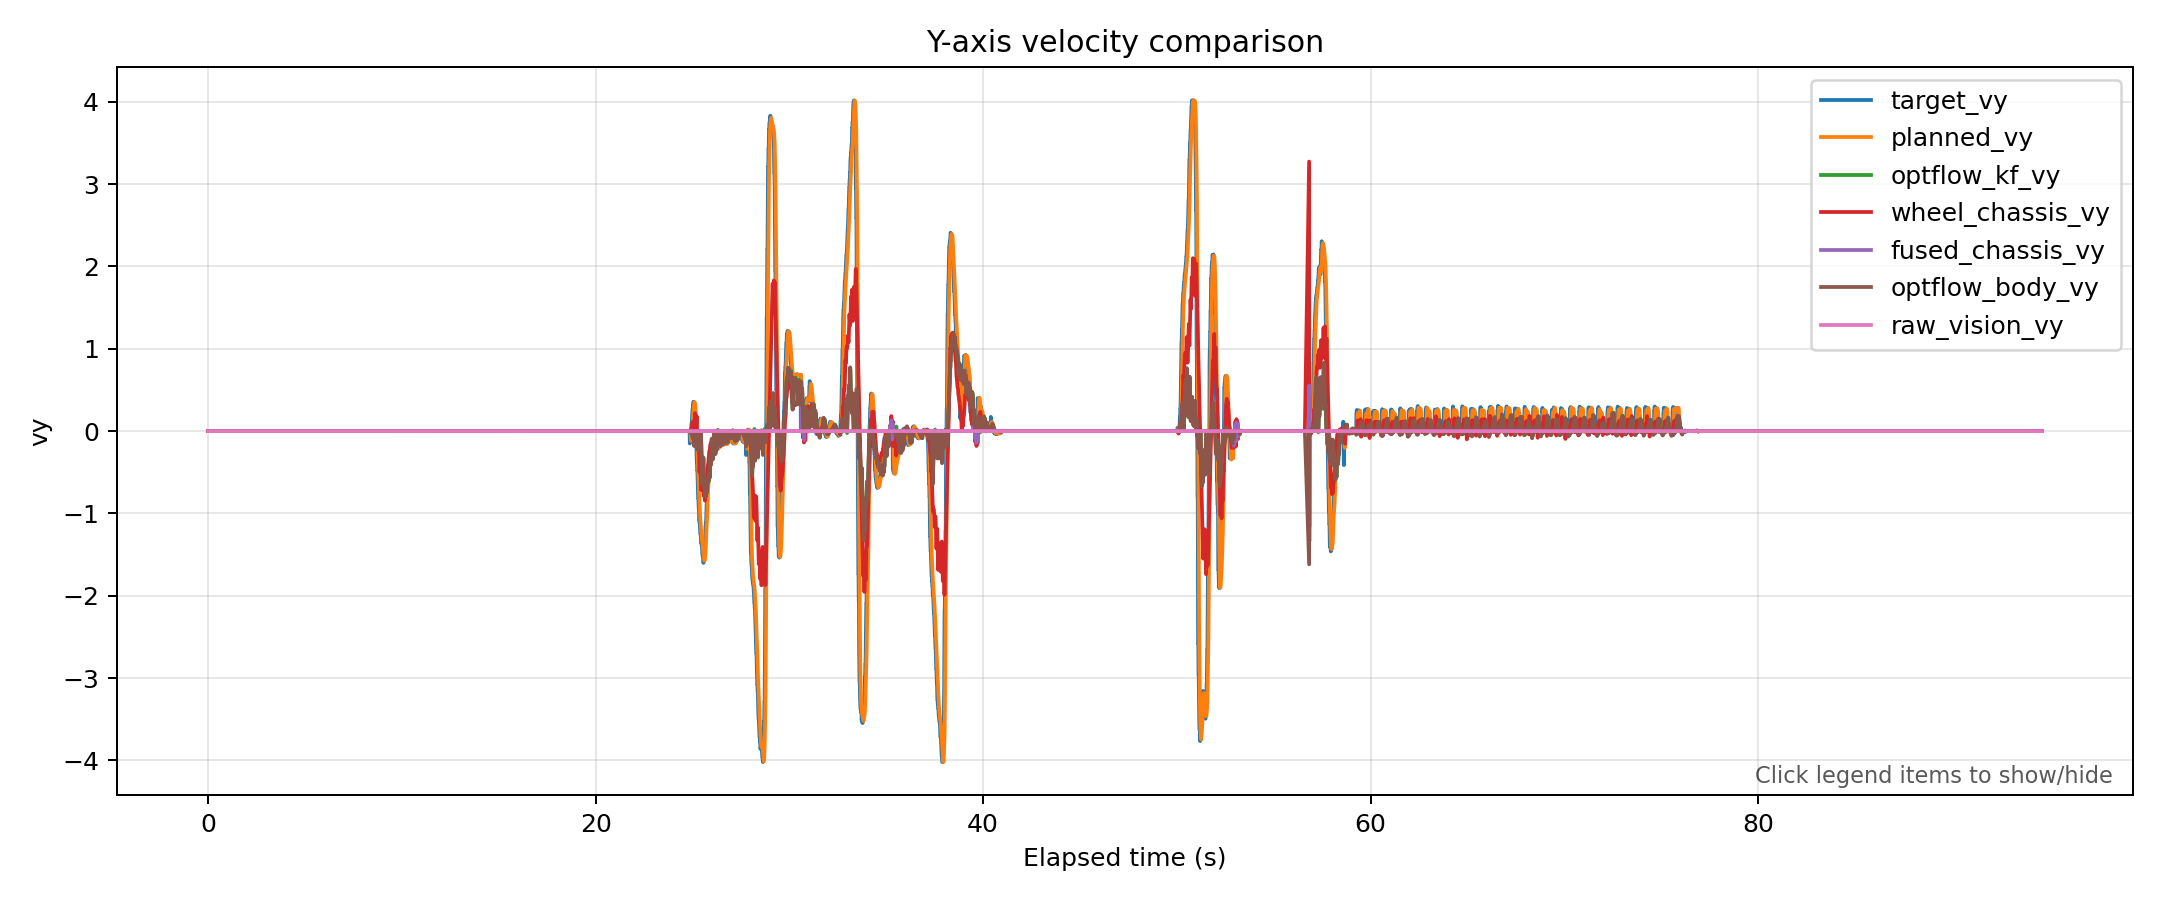
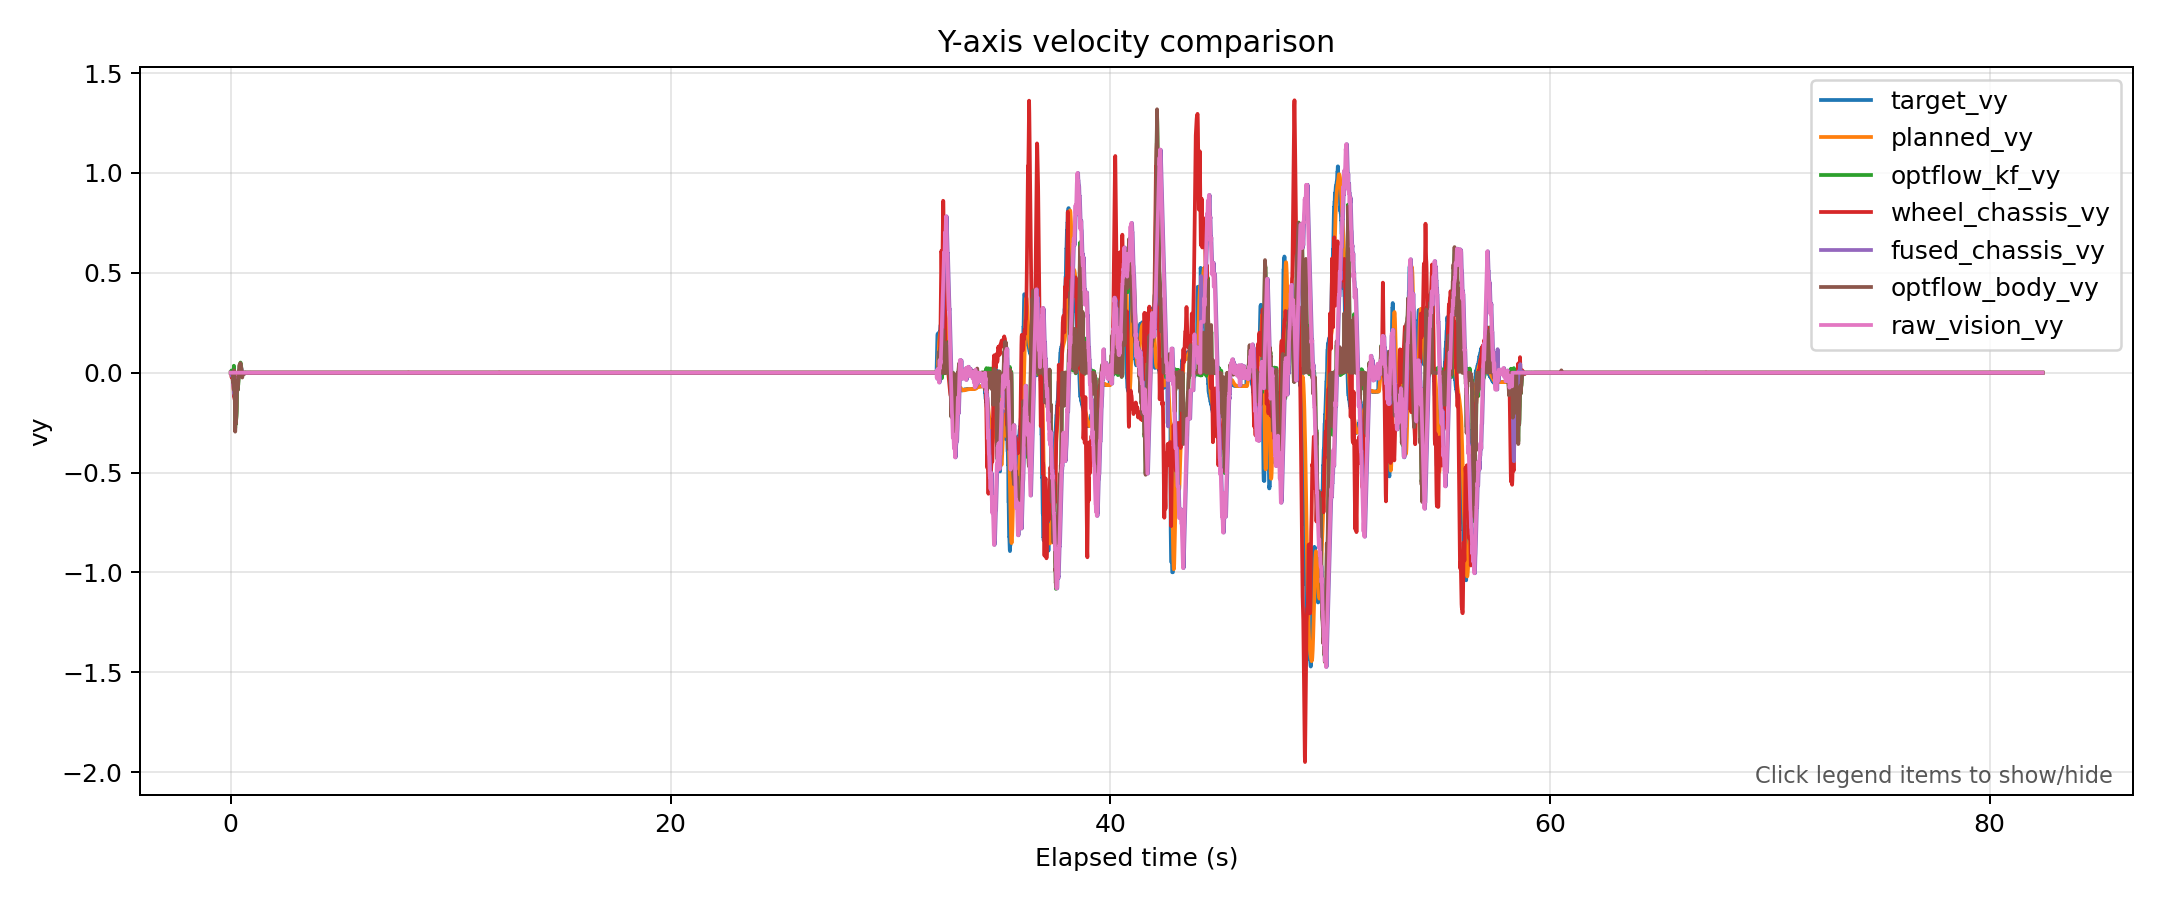
params for F control

diff --git a/Docs/visualize_stm32_velocity.py b/Docs/visualize_stm32_velocity.py
@@ -14,6 +14,7 @@ Generated outputs:
     stm32_velocity_vision_source.png, when vision_source exists
     stm32_velocity_yaw_control.png, when chassis_yaw_rad exists
     stm32_velocity_controller_force.png, when controller_f_task_x exists
+    stm32_velocity_xy_acc_dec_limits.png, when XY acceleration-limit columns exist
     stm32_velocity_error_summary.csv
 
 Usage:
@@ -574,6 +575,47 @@ def plot_controller_force(plot_df: pd.DataFrame, output_dir: Path, interactive: 
     return True
 
 
+def plot_xy_acc_dec_limits(
+    plot_df: pd.DataFrame,
+    output_dir: Path,
+    interactive: bool,
+) -> bool:
+    required_cols = {
+        "xy_max_acc_x",
+        "xy_max_acc_y",
+        "xy_max_dec_x",
+        "xy_max_dec_y",
+    }
+    if not required_cols.issubset(plot_df.columns):
+        return False
+
+    fig, (ax_x, ax_y) = plt.subplots(2, 1, figsize=(12, 7), sharex=True)
+
+    for ax, axis_name in ((ax_x, "x"), (ax_y, "y")):
+        artists = []
+        for limit_name, linestyle in (("acc", "-"), ("dec", "--")):
+            column = f"xy_max_{limit_name}_{axis_name}"
+            (line,) = ax.plot(
+                plot_df["t_bin"],
+                plot_df[column],
+                label=column,
+                linestyle=linestyle,
+            )
+            artists.append(line)
+
+        ax.set_title(f"{axis_name.upper()}-axis acceleration/deceleration limits")
+        ax.set_ylabel("Acceleration (m/s^2)")
+        ax.grid(True, alpha=0.3)
+        add_interactive_legend(ax, artists)
+
+    ax_y.set_xlabel("Elapsed time (s)")
+    fig.tight_layout()
+    fig.savefig(output_dir / "stm32_velocity_xy_acc_dec_limits.png", dpi=180)
+    if not interactive:
+        plt.close(fig)
+
+    return True
+
 def print_basic_info(df: pd.DataFrame, csv_path: Path) -> None:
     duration_s = df["t_s"].iloc[-1] - df["t_s"].iloc[0]
     median_dt_ms = df["time_ms"].diff().median()
@@ -595,7 +637,7 @@ def main() -> None:
     parser.add_argument(
         "--csv",
         type=str,
-        default="stm32_velocity_log_regulation.csv",
+        default="stm32_velocity_log_F_3.csv",
         help="Path to input CSV file.",
     )
     parser.add_argument(
@@ -634,6 +676,7 @@ def main() -> None:
     has_vision_source_plot = plot_vision_source(plot_df, output_dir, interactive)
     has_yaw_control_plot = plot_yaw_control(plot_df, output_dir, interactive)
     has_controller_force_plot = plot_controller_force(plot_df, output_dir, interactive)
+    has_xy_acc_dec_limits_plot = plot_xy_acc_dec_limits(plot_df, output_dir, interactive)
     summary = export_error_summary(df, output_dir)
 
     print("\nError summary:")
@@ -650,6 +693,8 @@ def main() -> None:
         print(output_dir / "stm32_velocity_yaw_control.png")
     if has_controller_force_plot:
         print(output_dir / "stm32_velocity_controller_force.png")
+    if has_xy_acc_dec_limits_plot:
+        print(output_dir / "stm32_velocity_xy_acc_dec_limits.png")
     print(output_dir / "stm32_velocity_error_summary.csv")
 
     if interactive:

diff --git a/Firmware/Component/control_params.hpp b/Firmware/Component/control_params.hpp
@@ -143,22 +143,22 @@ inline constexpr float kVelFeedbackGainYaw = 0.0f;
 // ==========================================================================
 
 // ---- vx ----
-inline constexpr float kChassisVxRefButterworthCutoffHz = 10.0f;   // target LPF (Hz)
+inline constexpr float kChassisVxRefButterworthCutoffHz = 5.0f;   // target LPF (Hz)
 inline constexpr float kChassisVelPidKpX            = 30.0f;
 inline constexpr float kChassisVelPidKiX            = 300.0f;
 inline constexpr float kChassisVelPidKdX            = 0.0f;
-inline constexpr float kChassisVelPidOutputLimitX   = 10.0f;   // m/s²
-inline constexpr float kChassisVelPidIntegLimitX    = 10.0f;    // m/s² contribution
+inline constexpr float kChassisVelPidOutputLimitX   = 20.0f;   // m/s²
+inline constexpr float kChassisVelPidIntegLimitX    = 20.0f;    // m/s² contribution
 inline constexpr float kChassisVelPidBackCalcGainX  = 0.3f;
 inline constexpr float kChassisVelPidDiffCutoffHzX  = 0.0f;
 
 // ---- vy ----
-inline constexpr float kChassisVyRefButterworthCutoffHz = 10.0f;   // target LPF (Hz)
+inline constexpr float kChassisVyRefButterworthCutoffHz = 5.0f;   // target LPF (Hz)
 inline constexpr float kChassisVelPidKpY            = 30.0f;
 inline constexpr float kChassisVelPidKiY            = 300.0f;
 inline constexpr float kChassisVelPidKdY            = 0.0f;
-inline constexpr float kChassisVelPidOutputLimitY   = 10.0f;   // m/s²
-inline constexpr float kChassisVelPidIntegLimitY    = 10.0f;    // m/s² contribution
+inline constexpr float kChassisVelPidOutputLimitY   = 20.0f;   // m/s²
+inline constexpr float kChassisVelPidIntegLimitY    = 20.0f;    // m/s² contribution
 inline constexpr float kChassisVelPidBackCalcGainY  = 0.3f;
 inline constexpr float kChassisVelPidDiffCutoffHzY  = 0.0f;
 

diff --git a/Firmware/Component/chassis_controller.cpp b/Firmware/Component/chassis_controller.cpp
@@ -205,6 +205,8 @@ void ChassisController::step(float dt_s) {
     // Runtime acc limit from SPI (outer clamp, complements PID's internal output_limit)
     const float pid_vx = std::clamp(pid_vx_raw, -vx_acc_limit_, vx_acc_limit_);
     const float pid_vy = std::clamp(pid_vy_raw, -vy_acc_limit_, vy_acc_limit_);
+    // const float pid_vx = pid_vx_raw;
+    // const float pid_vy = pid_vy_raw;
 
     vx_ref_debug = vel_ref_[0];
     vy_ref_debug = vel_ref_[1];

diff --git a/Firmware/Task/ctrl_task.cpp b/Firmware/Task/ctrl_task.cpp
@@ -233,6 +233,7 @@ void StartCrtlTask(void *argument) {
     uint32_t last_heartbeat_count = 0;
     uint8_t last_dribbler_mode = 0;
     bool last_active_torque_mode = false;
+    (void)last_active_torque_mode;  // silence unused warning when torque mode disabled
     uint8_t hybrid_switch_delay = 0;   // skip cmd for 1 frame after mode switch
 
     for(;;) {
